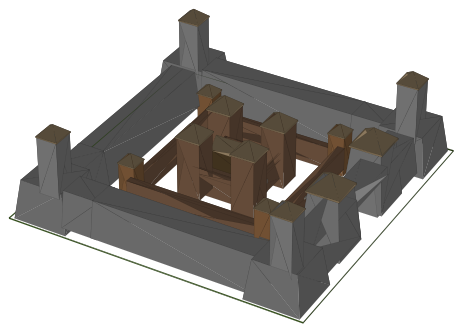
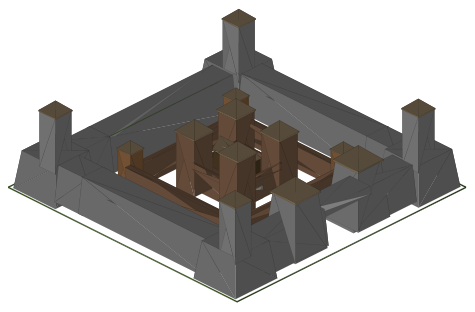
The citadel is now perfectly **aligned with the isometric grid** — its 6×6 base diamond sits squarely on the grid cells (matching the 2:1 grid angle), with the towers rising from the center. The whole City Screen renders correctly (HUD, grid, bottom bar).
The fix was two-part:
1. **Projection**: re-rendered the citadel models with an **orthographic 2:1 isometric camera** (elev 30°, azim −45°) instead of the mismatched perspective angle, so the base square projects as a proper 2:1 diamond that matches the grid.
2. **Anchoring**: all four stage models now share one aligned canvas, and CityMap pins the base's bottom vertex to the grid's 6×6 footprint so it always lines up.

Verified live on the City Screen. Both the previous base-plane issue and this grid-alignment issue are resolved.

Changed region(s): [[0.0, 0.0288, 1.0, 0.9808], [0.2727, 0.6346, 0.303, 0.6635], [0.2121, 0.6058, 0.2424, 0.6346]]

diff --git a/frontend/src/components/CityMap.tsx b/frontend/src/components/CityMap.tsx
@@ -3,7 +3,7 @@ import { Image, LayoutChangeEvent, StyleSheet, View } from "react-native";
 import { GestureDetector, Gesture } from "react-native-gesture-handler";
 import Animated, { useAnimatedStyle, useSharedValue } from "react-native-reanimated";
 import Svg, { Line, Polygon } from "react-native-svg";
-import { CITY_GRID, citadelAssetKey } from "@/src/game/data";
+import { CITADEL_SIZE, CITY_GRID, citadelAssetKey } from "@/src/game/data";
 import { City } from "@/src/game/types";
 import { C } from "@/src/theme";
 
@@ -55,9 +55,12 @@ export default function CityMap({ city }: Props) {
   }, []);
 
   const center = proj(N / 2, N / 2);
+  const baseBottom = proj(N / 2 + CITADEL_SIZE / 2, N / 2 + CITADEL_SIZE / 2); // grid bottom vertex of the 6×6 footprint
   const stageKey = citadelAssetKey(city.citadelStage ?? 1);
-  const citW = 6 * 2 * HW * 1.15; // ~6 cells wide
-  const citH = citW; // sprites are ~square; contain handles aspect
+  // Citadel PNG is 475×312 with its 6×6 base (≈458px wide) centred at x-frac 0.499
+  // and the base bottom vertex at y-frac 0.971. Scale so the base spans 12·HW (6 cells).
+  const citW = (6 * 2 * HW) / 0.964; // ≈249
+  const citH = citW * (312 / 475);
 
   const onLayout = (e: LayoutChangeEvent) => {
     const { width, height } = e.nativeEvent.layout;
@@ -99,7 +102,7 @@ export default function CityMap({ city }: Props) {
             source={CITADEL_SPRITES[stageKey]}
             pointerEvents="none"
             resizeMode="contain"
-            style={{ position: "absolute", left: center.x - citW / 2, top: center.y - citH * 0.72, width: citW, height: citH }}
+            style={{ position: "absolute", left: baseBottom.x - citW * 0.499, top: baseBottom.y - citH * 0.971, width: citW, height: citH }}
           />
         </Animated.View>
       </GestureDetector>

diff --git a/frontend/scripts/render_city.py b/frontend/scripts/render_city.py
@@ -98,9 +98,9 @@ def draw(R, cols, hasc, L):
         pass
     ax.add_collection3d(Poly3DCollection(polys, facecolors=fc, edgecolors=(0, 0, 0, 0.18), linewidths=0.2))
     ax.set_xlim(-L / 2, L / 2); ax.set_ylim(-L / 2, L / 2); ax.set_zlim(0, L)
-    ax.set_box_aspect((1, 1, 1)); ax.view_init(elev=30, azim=-60); ax.set_axis_off()
+    ax.set_box_aspect((1, 1, 1)); ax.view_init(elev=30, azim=-45); ax.set_axis_off()
     try:
-        ax.set_proj_type("persp", focal_length=0.6)
+        ax.set_proj_type("ortho")  # 2:1 isometric to match the city grid
     except Exception:
         pass
     fig.canvas.draw()
@@ -108,22 +108,33 @@ def draw(R, cols, hasc, L):
     argb = np.frombuffer(fig.canvas.buffer_rgba(), dtype=np.uint8).reshape(h, w, 4)
     plt.close(fig)
     im = Image.fromarray(argb.copy(), "RGBA")
-    bb = im.getbbox()
-    if not bb:
-        return im
-    im = im.crop(bb)
-    # Small transparent margin so the crop bbox edge isn't visible as a hairline.
-    pad = 8
-    canvas = Image.new("RGBA", (im.width + pad * 2, im.height + pad * 2), (0, 0, 0, 0))
-    canvas.paste(im, (pad, pad))
-    return canvas
+    return im  # full frame; callers crop (shared crop keeps stages aligned)
 
 
 os.makedirs(ASSETS, exist_ok=True)
+CITADELS = [m for m in MODELS if m.startswith("citadel")]
+rendered = {}
 for name in MODELS:
     R, cols, hasc = load(name)
     flat = R.reshape(-1, 3)
-    L = max(2 * np.abs(flat[:, :2]).max(), flat[:, 2].max()) * 1.05
+    L = 5.75 * 1.05  # shared cube for all citadels (same 6×6 footprint)
+    if name == "houses_tm":
+        L = max(2 * np.abs(flat[:, :2]).max(), flat[:, 2].max()) * 1.05
     print(f"{name}: tris={len(R)} L={L:.2f} blank={100*np.mean([is_blank(c) for c in cols]):.0f}%")
-    draw(R, cols, hasc, L).save(os.path.join(ASSETS, name + ".png"))
+    rendered[name] = draw(R, cols, hasc, L)
+
+# Citadels share ONE canvas (union crop) so the base sits at the same pixel in
+# every stage — the City Screen can then anchor all stages identically.
+ux0 = uy0 = 10 ** 9; ux1 = uy1 = -1
+for name in CITADELS:
+    bb = rendered[name].getbbox()
+    if bb:
+        ux0 = min(ux0, bb[0]); uy0 = min(uy0, bb[1]); ux1 = max(ux1, bb[2]); uy1 = max(uy1, bb[3])
+pad = 8
+crop = (ux0 - pad, uy0 - pad, ux1 + pad, uy1 + pad)
+print("citadel shared canvas", (crop[2] - crop[0], crop[3] - crop[1]))
+for name in CITADELS:
+    rendered[name].crop(crop).save(os.path.join(ASSETS, name + ".png"))
+rendered["houses_tm"].crop(rendered["houses_tm"].getbbox()).save(os.path.join(ASSETS, "houses_tm.png"))
 print("done")
+
